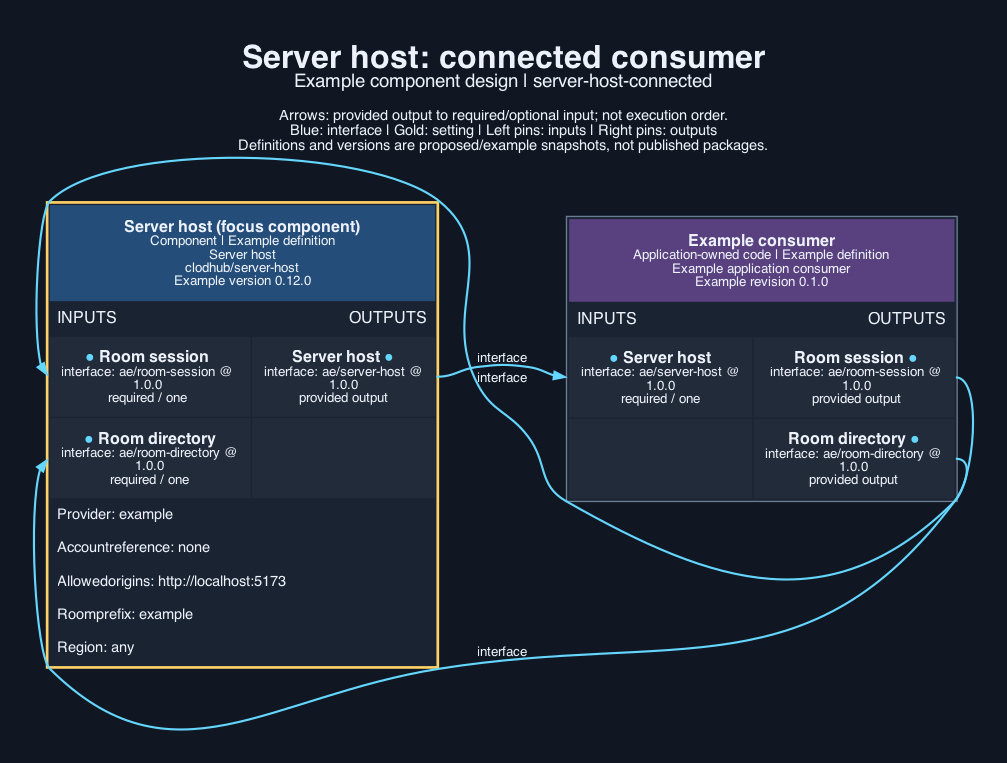
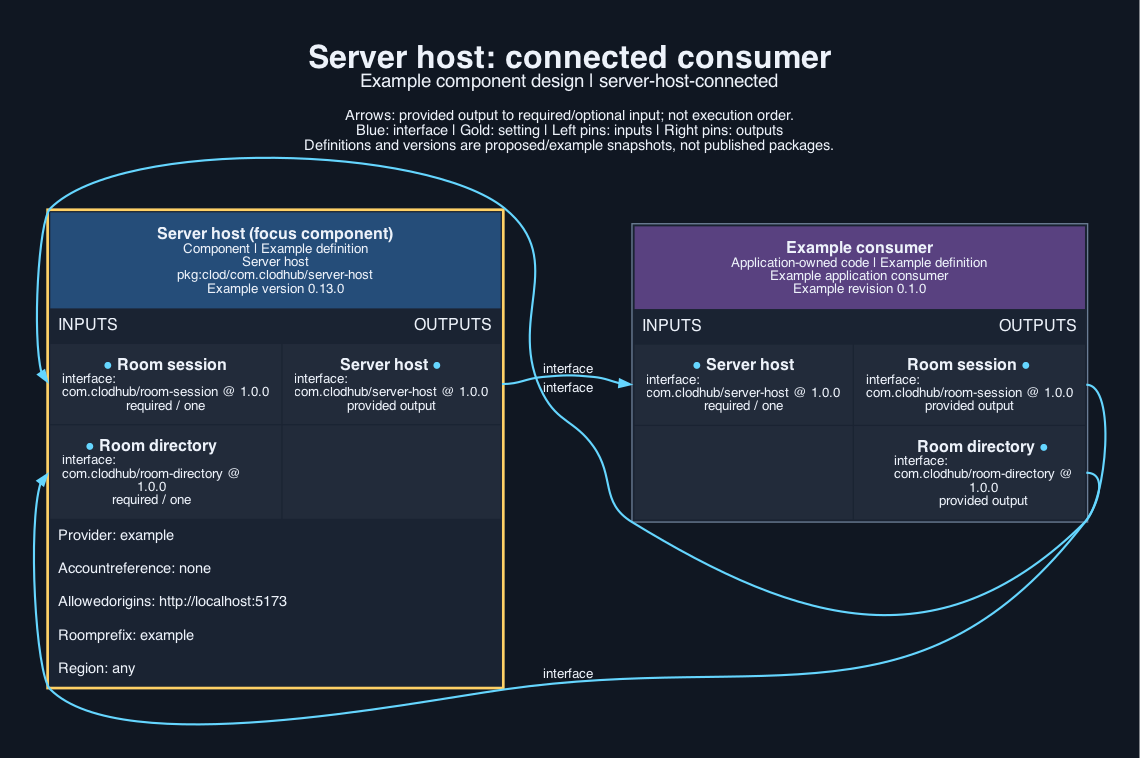
server-host 0.13.0: package URL names, clod, com.clodhub interface types

diff --git a/implementation/server/node/storage-export.ts b/implementation/server/node/storage-export.ts
@@ -2,7 +2,7 @@ import { createHash } from "node:crypto";
 import { existsSync, mkdirSync, readFileSync, readdirSync, renameSync, writeFileSync } from "node:fs";
 import { join } from "node:path";
 
-// Portable export and import of the object files the Node adapter keeps, as ndjson (ae/object-storage 1.0.0).
+// Portable export and import of the object files the Node adapter keeps, as ndjson (com.clodhub/object-storage 1.0.0).
 
 export type ObjectRecord = { namespace: string; name: string; storage: Record<string, unknown>; alarm: number | null };
 export type Check = { counts: boolean; checksums: boolean; sample: string[] };
@@ -34,7 +34,7 @@ export function readStorage(dataDirectory: string): ObjectRecord[] {
 
 export function exportStorage(records: ObjectRecord[]): string {
   const sorted = [...records].sort((a, b) => (a.namespace + "/" + a.name < b.namespace + "/" + b.name ? -1 : 1));
-  const lines: unknown[] = [{ type: "header", format: "ae/object-storage", version: "1.0.0", objects: sorted.length }];
+  const lines: unknown[] = [{ type: "header", format: "com.clodhub/object-storage", version: "1.0.0", objects: sorted.length }];
   for (const record of sorted) lines.push({ type: "object", ...record, sha256: digest(record) });
   return lines.map((line) => JSON.stringify(line)).join("\n") + "\n";
 }
@@ -42,7 +42,7 @@ export function exportStorage(records: ObjectRecord[]): string {
 export function importStorage(text: string): ObjectRecord[] {
   const lines = text.split("\n").filter((line) => line.length > 0).map((line) => JSON.parse(line));
   const header = lines[0];
-  if (!header || header.type !== "header" || header.format !== "ae/object-storage" || header.version !== "1.0.0") throw new Error("not an ae/object-storage 1.0.0 export");
+  if (!header || header.type !== "header" || header.format !== "com.clodhub/object-storage" || header.version !== "1.0.0") throw new Error("not a com.clodhub/object-storage 1.0.0 export");
   const records: ObjectRecord[] = [];
   const seen = new Set<string>();
   for (const line of lines.slice(1)) {

diff --git a/tests/web.test.ts b/tests/web.test.ts
@@ -370,13 +370,13 @@ test("tampered, miscounted, duplicate or foreign exports are rejected", () => {
   assert.throws(() => importStorage(text.replace('"count":1', '"count":2')), /checksum mismatch for ROOM\/a/);
   assert.throws(() => importStorage(text.replace('"objects":1', '"objects":2')), /object count mismatch/);
   assert.throws(() => importStorage(text + text.split("\n")[1] + "\n"), /duplicate object/);
-  assert.throws(() => importStorage("{}\n"), /not an ae\/object-storage/);
+  assert.throws(() => importStorage("{}\n"), /not a com\.clodhub\/object-storage/);
   assert.throws(() => importStorage(exportStorage([{ ...record, namespace: "../x" }])), /invalid namespace/);
   assert.equal(verifyStorage([record], []).counts, false);
   assert.equal(verifyStorage([record], [{ ...record, storage: { count: 9 } }]).checksums, false);
 });
 
-// ---- host-settings.ts (rendered by aepm at install) ----
+// ---- host-settings.ts (rendered by clod at install) ----
 
 const settingsFixture = JSON.parse(readFileSync(new URL("fixtures/host-settings-collect.json", import.meta.url), "utf8"));
 const declarations = settingsFixture.collect as Declaration[];
@@ -440,7 +440,7 @@ test("a Cloudflare provider without an account name is refused when the host sta
   assert.deepEqual(fromHostSettings({ ...hostSettings, accountReference: "acme" }).accountReference, "acme");
 });
 
-test("the template rules refuse what aepm refuses", () => {
+test("the template rules refuse what clod refuses", () => {
   const base = { provider: "own-hardware", roomPrefix: "demo-" };
   assert.throws(() => configuration(declarations, { roomPrefix: "demo-" }), /required-setting provider/);
   assert.throws(() => configuration(declarations, { ...base, roomPrefix: "Demo" }), /setting-grammar roomPrefix/);

diff --git a/implementation/server/settings.ts b/implementation/server/settings.ts
@@ -24,7 +24,7 @@ export interface ResolvedServerSettings {
   region: string;
 }
 
-// The values aepm renders into host-settings.ts from this component's collected settings (every field is always present).
+// The values clod renders into host-settings.ts from this component's collected settings (every field is always present).
 export interface HostSettings {
   provider: Provider;
   // The name of the account secret, or NO_ACCOUNT when none is used (own hardware).
@@ -48,7 +48,7 @@ export const JURISDICTIONS: readonly string[] = ["eu", "us", "fedramp"];
 export const LOCATION_HINTS: readonly string[] = ["wnam", "enam", "sam", "weur", "eeur", "apac", "apac-ne", "apac-se", "oc", "afr", "me"];
 
 const SLUG = /^[a-z][a-z0-9-]{0,63}$/;
-// The secret reference grammar aepm accepts for configuration values.
+// The secret reference grammar clod accepts for configuration values.
 const SECRET_REFERENCE = /^[A-Za-z][A-Za-z0-9_./-]{0,127}$/;
 const ORIGIN = /^(https?):\/\/([A-Za-z0-9.-]+)(:[0-9]{1,5})?$/;
 const LOOPBACK = new Set(["localhost", "127.0.0.1"]);

diff --git a/implementation/server/host.ts b/implementation/server/host.ts
@@ -24,7 +24,7 @@ export interface ServerHost {
   deployFiles(options?: DeployOptions): Record<string, string>;
 }
 
-// The host for the settings aepm rendered into host-settings.ts (`import { hostSettings } from "./host-settings.ts"`).
+// The host for the settings clod rendered into host-settings.ts (`import { hostSettings } from "./host-settings.ts"`).
 export const createServerHostFromHostSettings = (raw: HostSettings): ServerHost => createServerHost(fromHostSettings(raw));
 
 export function createServerHost(settings: ServerSettings): ServerHost {

diff --git a/tests/render-template.ts b/tests/render-template.ts
@@ -1,4 +1,4 @@
-// A pure copy of aepm's template rules (aepm/application.py: configuration, substitute) for the settings the tests render.
+// A pure copy of clod's template rules (clod/application.py: configuration, substitute) for the settings the tests render.
 
 export interface Declaration { id: string; type: "string" | "boolean" | "integer"; grammar: string; required: boolean; secret: boolean; default?: string | boolean | number }
 

diff --git a/examples/rendered-host-settings.ts b/examples/rendered-host-settings.ts
@@ -1,6 +1,6 @@
 import { fromHostSettings, type HostSettings, type ServerSettings } from "./settings.ts";
 
-// Rendered by aepm at install from the server-host settings; nothing else writes this file.
+// Rendered by clod at install from the server-host settings; nothing else writes this file.
 export const hostSettings: HostSettings = {
   provider: "cloudflare-free",
   accountReference: "ourpoker-cloudflare-account",

diff --git a/implementation/server/host-settings.ts b/implementation/server/host-settings.ts
@@ -1,6 +1,6 @@
 import { fromHostSettings, type HostSettings, type ServerSettings } from "./settings.ts";
 
-// Rendered by aepm at install from the server-host settings; nothing else writes this file.
+// Rendered by clod at install from the server-host settings; nothing else writes this file.
 export const hostSettings: HostSettings = {
   provider: "{{provider}}",
   accountReference: "{{accountReference}}",

diff --git a/authoring/finish.py b/authoring/finish.py
@@ -1,4 +1,4 @@
-"""Run after tools/scaffold_component.py: marks host-settings.ts and wrangler.jsonc as aepm template artefacts (the scaffolder has no template option) and keeps the committed manifest layout."""
+"""Run after tools/scaffold_component.py: marks host-settings.ts and wrangler.jsonc as clod template artefacts (the scaffolder has no template option) and keeps the committed manifest layout."""
 import json
 from pathlib import Path
 

diff --git a/CONTRACT.md b/CONTRACT.md
@@ -6,7 +6,7 @@ The entry point of a server target. The application writes one worker module (a 
 Facilities: `server-host` (Hosting for the application's room service on Cloudflare or own hardware).
 
 ## User inputs
-The installer collects `provider` (`cloudflare-free`, `cloudflare-paid` or `own-hardware`), `accountReference` (a reference name, never a value: the name of the secret in the release pipeline's store that holds the Cloudflare account; default `none`, which is right on own hardware and refused on Cloudflare), `allowedOrigins` (one web address of the client; default `http://localhost:5173`; loopback addresses are trusted anyway, and more origins are passed to `createServerHost` as a list), `roomPrefix` (required; lower-case letters, digits and hyphens, such as `ourpoker-`: the prefix of the names under which rooms are stored, also used for the worker's name and for video room names) and `region` (default `any`; on Cloudflare a jurisdiction `eu`, `us` or `fedramp`, or a location hint such as `weur`; on own hardware a free label only). aepm renders all five into `host-settings.ts` at install.
+The installer collects `provider` (`cloudflare-free`, `cloudflare-paid` or `own-hardware`), `accountReference` (a reference name, never a value: the name of the secret in the release pipeline's store that holds the Cloudflare account; default `none`, which is right on own hardware and refused on Cloudflare), `allowedOrigins` (one web address of the client; default `http://localhost:5173`; loopback addresses are trusted anyway, and more origins are passed to `createServerHost` as a list), `roomPrefix` (required; lower-case letters, digits and hyphens, such as `ourpoker-`: the prefix of the names under which rooms are stored, also used for the worker's name and for video room names) and `region` (default `any`; on Cloudflare a jurisdiction `eu`, `us` or `fedramp`, or a location hint such as `weur`; on own hardware a free label only). clod renders all five into `host-settings.ts` at install.
 
 - `provider` (string, slug; required)
 - `accountReference` (string, slug; optional; default `none`; a reference name, not secret and never a value)
@@ -19,7 +19,7 @@ The installer collects `provider` (`cloudflare-free`, `cloudflare-paid` or `own-
 
 - `implementation/server/deploy.ts` -> `components/server-host/server/deploy.ts`
 - `implementation/server/entry.ts` -> `components/server-host/server/entry.ts`
-- `implementation/server/host-settings.ts` -> `components/server-host/server/host-settings.ts` (template: aepm replaces `{{provider}}`, `{{accountReference}}`, `{{allowedOrigins}}`, `{{roomPrefix}}` and `{{region}}` inside the quoted strings at install)
+- `implementation/server/host-settings.ts` -> `components/server-host/server/host-settings.ts` (template: clod replaces `{{provider}}`, `{{accountReference}}`, `{{allowedOrigins}}`, `{{roomPrefix}}` and `{{region}}` inside the quoted strings at install)
 - `implementation/server/host.ts` -> `components/server-host/server/host.ts`
 - `implementation/server/node/globals.ts` -> `components/server-host/server/node/globals.ts`
 - `implementation/server/node/loader.ts` -> `components/server-host/server/node/loader.ts`
@@ -32,21 +32,21 @@ The installer collects `provider` (`cloudflare-free`, `cloudflare-paid` or `own-
 - `implementation/server/region.ts` -> `components/server-host/server/region.ts`
 - `implementation/server/settings.ts` -> `components/server-host/server/settings.ts`
 - `implementation/server/start.ts` -> `components/server-host/server/start.ts`
-- `implementation/server/wrangler.jsonc` -> `components/server-host/server/wrangler.jsonc` (template: aepm replaces `{{roomPrefix}}` and `{{allowedOrigins}}` at install)
+- `implementation/server/wrangler.jsonc` -> `components/server-host/server/wrangler.jsonc` (template: clod replaces `{{roomPrefix}}` and `{{allowedOrigins}}` at install)
 
 Dependencies: none.
 `tools.lock.json` pins verification tools: node 26.5. Licence wording remains deferred.
 
 ## Provided interfaces
-- `interfaces/server-host.json` defines `server-host` (ae/server-host) version 1.0.0 as an OpenRPC 1.3.2 document: one method per exported function of `server/host.ts` and `server/node/*.ts` (`createServerHost`, `validateSettings`, `originAllowed`, `regionEnv`, `serveNode`, the storage export and import functions and the rest), plus the functions of the returned host (`ServerHost.*`), with parameters and results as JSON Schema 2020-12 and the errors each throws.
-- `interfaces/object-storage.schema.json` is the JSON Schema 2020-12 document (ae/object-storage 1.0.0) of the object files and the ndjson export lines the Node adapter keeps.
+- `interfaces/server-host.json` defines `server-host` (com.clodhub/server-host) version 1.0.0 as an OpenRPC 1.3.2 document: one method per exported function of `server/host.ts` and `server/node/*.ts` (`createServerHost`, `validateSettings`, `originAllowed`, `regionEnv`, `serveNode`, the storage export and import functions and the rest), plus the functions of the returned host (`ServerHost.*`), with parameters and results as JSON Schema 2020-12 and the errors each throws.
+- `interfaces/object-storage.schema.json` is the JSON Schema 2020-12 document (com.clodhub/object-storage 1.0.0) of the object files and the ndjson export lines the Node adapter keeps.
 
 ## Required interfaces
-- `room-session` (ae/room-session) version 1.0.0, supplied by the recipe or application; `interfaces/required-room-session.json` is a copy of the providing component's interface document.
-- `room-directory` (ae/room-directory) version 1.0.0, supplied by the recipe or application; `interfaces/required-room-directory.json` is a copy of the providing component's interface document.
+- `room-session` (com.clodhub/room-session) version 1.0.0, supplied by the recipe or application; `interfaces/required-room-session.json` is a copy of the providing component's interface document.
+- `room-directory` (com.clodhub/room-directory) version 1.0.0, supplied by the recipe or application; `interfaces/required-room-directory.json` is a copy of the providing component's interface document.
 
 ## Integration
-aepm renders `components/server-host/server/host-settings.ts` from the five settings (a template artefact; nothing else writes it). It exports `hostSettings` (the typed values) and `serverSettings()` (the settings `createServerHost` takes; `none` for `accountReference` means no account). In the application's server module: `import { serverSettings } from "./host-settings.ts"` and `const host = createServerHost(serverSettings())` (or `createServerHostFromHostSettings(hostSettings)`) from `server/host.ts`; build the room service as usual (`createWorker(host.roomsSettings(), roomIds, service)`); `export const Room = host.objectClass(RoomBase)` and `export const Directory = host.objectClass(DirectoryBase)` (`DirectoryBase = createDirectoryClass(DurableObject, options)` from room-directory); `export default host.entry(worker)`. The installed application runs the module with the two installed files beside `host-settings.ts`, which assume the application's worker module is `server/src/index.ts` (the Durable Object classes `Room` and `Directory`, bindings `ROOM` and `DIRECTORY`): `wrangler.jsonc`, rendered at install from the settings (the worker named `<roomPrefix>server`, `nodejs_compat`, `WEB_ORIGINS` from `allowedOrigins`, the two SQLite-backed objects; the same configuration `renderWrangler` writes), used from the application's server folder as `wrangler deploy --config ../components/server-host/server/wrangler.jsonc` (or `wrangler dev`, or the Workers test runtime); and `start.ts`, run as `node ../components/server-host/server/start.ts` on Node for own hardware or local development with any provider: it imports `server/node/register.ts` before the application module, passes `WEB_ORIGINS` (default `allowedOrigins`), `CODE_VERSION` and every other upper-case environment variable to the worker's env, and listens on `PORT` (default 8788) and `HOST` (default 127.0.0.1) with room storage in `DATA_DIRECTORY` (default `./data`). `host.deployFiles()` renders the same deployment files from settings at run time for an application laid out differently; write them next to the module. Cloudflare providers: write them, then run `sh deploy.sh` with the secret reference resolved into `CLOUDFLARE_ACCOUNT_ID` and `CLOUDFLARE_API_TOKEN`. Own hardware: write `start.ts`, run `node start.ts`; it imports `server/node/register.ts` before the application module (a registered loader maps `cloudflare:workers` to a local shim and extensionless relative imports to `.ts`), then calls `serveNode`. `examples/worker.ts` composes the host with a small room service, `examples/start-own-hardware.ts` runs it, and `examples/rendered-host-settings.ts` is what aepm renders for one set of answers. `server/node/storage-export.ts` exports and imports the Node adapter's data as ndjson (see migration.json).
+clod renders `components/server-host/server/host-settings.ts` from the five settings (a template artefact; nothing else writes it). It exports `hostSettings` (the typed values) and `serverSettings()` (the settings `createServerHost` takes; `none` for `accountReference` means no account). In the application's server module: `import { serverSettings } from "./host-settings.ts"` and `const host = createServerHost(serverSettings())` (or `createServerHostFromHostSettings(hostSettings)`) from `server/host.ts`; build the room service as usual (`createWorker(host.roomsSettings(), roomIds, service)`); `export const Room = host.objectClass(RoomBase)` and `export const Directory = host.objectClass(DirectoryBase)` (`DirectoryBase = createDirectoryClass(DurableObject, options)` from room-directory); `export default host.entry(worker)`. The installed application runs the module with the two installed files beside `host-settings.ts`, which assume the application's worker module is `server/src/index.ts` (the Durable Object classes `Room` and `Directory`, bindings `ROOM` and `DIRECTORY`): `wrangler.jsonc`, rendered at install from the settings (the worker named `<roomPrefix>server`, `nodejs_compat`, `WEB_ORIGINS` from `allowedOrigins`, the two SQLite-backed objects; the same configuration `renderWrangler` writes), used from the application's server folder as `wrangler deploy --config ../components/server-host/server/wrangler.jsonc` (or `wrangler dev`, or the Workers test runtime); and `start.ts`, run as `node ../components/server-host/server/start.ts` on Node for own hardware or local development with any provider: it imports `server/node/register.ts` before the application module, passes `WEB_ORIGINS` (default `allowedOrigins`), `CODE_VERSION` and every other upper-case environment variable to the worker's env, and listens on `PORT` (default 8788) and `HOST` (default 127.0.0.1) with room storage in `DATA_DIRECTORY` (default `./data`). `host.deployFiles()` renders the same deployment files from settings at run time for an application laid out differently; write them next to the module. Cloudflare providers: write them, then run `sh deploy.sh` with the secret reference resolved into `CLOUDFLARE_ACCOUNT_ID` and `CLOUDFLARE_API_TOKEN`. Own hardware: write `start.ts`, run `node start.ts`; it imports `server/node/register.ts` before the application module (a registered loader maps `cloudflare:workers` to a local shim and extensionless relative imports to `.ts`), then calls `serveNode`. `examples/worker.ts` composes the host with a small room service, `examples/start-own-hardware.ts` runs it, and `examples/rendered-host-settings.ts` is what clod renders for one set of answers. `server/node/storage-export.ts` exports and imports the Node adapter's data as ndjson (see migration.json).
 
 ## Visual definition and connected examples
 `visual/definition.json` maps its ports to the provided and required interfaces. `visual/examples/connected.json` connects the component to an illustrative application consumer. Both image formats and a text description are in `visual/output/`.
@@ -55,7 +55,7 @@ aepm renders `components/server-host/server/host-settings.ts` from the five sett
 cloudflare-free and cloudflare-paid deploy one Worker with SQLite-backed Durable Objects (the only kind the free plan offers) to a Cloudflare account supplied by reference; nothing in the package holds an account value, and `wrangler.jsonc` carries only a comment naming the reference. own-hardware needs one machine with Node 26 or later, a port, and TLS in front if clients connect from https pages (the adapter speaks plain http and ws). Limits and prices are in suitability.json with their sources; the Node adapter has no measured limits.
 
 ## Verification
-`node --test tests/web.test.ts` checks settings validation (every provider, account reference grammar, origins, regions), the `host-settings.ts` template rendered by a small pure renderer that mirrors aepm's `{{setting}}` rules (quoted positions, grammars, secret settings refused, defaults) and then loaded and handed to the host, the origin policy and region placement against fake namespaces, the rendered deployment files, the installed `wrangler.jsonc` against `renderWrangler`, `start.ts` serving a worker module laid out as an installed application (on a free port, with `DATA_DIRECTORY`), RFC 6455 framing, and the Node adapter end to end on a real socket with a small Workers-style service: HTTP routing to named objects, object-to-object calls, streamed bodies, WebSocket handshake, first message, auto ping reply, broadcast, binary frames, server and client close, protocol errors, alarms, abort and restart, persistence across a restart including a pending alarm, and storage export and import. `authoring/integration-realtime-rooms.ts` (not packaged) additionally runs the real realtime-rooms service on the Node adapter. Deployment to Cloudflare, the wrangler files against a real account, and TLS, load and long-running behaviour of the Node adapter were not exercised.
+`node --test tests/web.test.ts` checks settings validation (every provider, account reference grammar, origins, regions), the `host-settings.ts` template rendered by a small pure renderer that mirrors clod's `{{setting}}` rules (quoted positions, grammars, secret settings refused, defaults) and then loaded and handed to the host, the origin policy and region placement against fake namespaces, the rendered deployment files, the installed `wrangler.jsonc` against `renderWrangler`, `start.ts` serving a worker module laid out as an installed application (on a free port, with `DATA_DIRECTORY`), RFC 6455 framing, and the Node adapter end to end on a real socket with a small Workers-style service: HTTP routing to named objects, object-to-object calls, streamed bodies, WebSocket handshake, first message, auto ping reply, broadcast, binary frames, server and client close, protocol errors, alarms, abort and restart, persistence across a restart including a pending alarm, and storage export and import. `authoring/integration-realtime-rooms.ts` (not packaged) additionally runs the real realtime-rooms service on the Node adapter. Deployment to Cloudflare, the wrangler files against a real account, and TLS, load and long-running behaviour of the Node adapter were not exercised.
 
 - `node --test tests/web.test.ts` (web, required-local; tools: node 26.5)
 
@@ -63,4 +63,4 @@ cloudflare-free and cloudflare-paid deploy one Worker with SQLite-backed Durable
 A small table uses cloudflare-free and stays within the free request allowance; a larger or always-on service uses cloudflare-paid; a club that prefers its own machine uses own-hardware and keeps data in a folder it can back up. A server pinned to `eu` keeps its objects in the European Union jurisdiction on Cloudflare.
 
 ## Updates and removal
-Patch updates replace the owned files; render the deployment files again after each update. The Node adapter's data format is described in migration.json (`ae/object-storage` 1.0.0). `accountReference` is a non-secret reference name with default `none` (a template cannot render a secret setting) and `allowedOrigins` has the default `http://localhost:5173`. `ServerSettings` is the lower layer that `createServerHost` takes; `serverSettings()` builds it from the rendered `hostSettings`. The Directory class comes from room-directory. Removal deletes the owned sources; on Cloudflare the Worker and its objects remain in the account until the owner deletes them, and on own hardware the data folder remains until the owner deletes it (export it first).
+Patch updates replace the owned files; render the deployment files again after each update. The Node adapter's data format is described in migration.json (`com.clodhub/object-storage` 1.0.0). `accountReference` is a non-secret reference name with default `none` (a template cannot render a secret setting) and `allowedOrigins` has the default `http://localhost:5173`. `ServerSettings` is the lower layer that `createServerHost` takes; `serverSettings()` builds it from the rendered `hostSettings`. The Directory class comes from room-directory. Removal deletes the owned sources; on Cloudflare the Worker and its objects remain in the account until the owner deletes them, and on own hardware the data folder remains until the owner deletes it (export it first).

diff --git a/INSTRUCTIONS.md b/INSTRUCTIONS.md
@@ -1,20 +1,20 @@
 # Server host instructions
 
 ## For the agent
-Select `clodhub/server-host` when the recipe's server target is chosen; pick the profile (`free` maps to cloudflare-free, `paid` to cloudflare-paid, own hardware to own-hardware) from the scale answer using suitability.json. Connect `room-session` and `room-directory` to the room service and directory components. Never put a Cloudflare token or account id in a setting: supply the name of the secret as `accountReference`. The recipe's server code imports `host-settings.ts` from the installed `components/server-host/server/` folder; do not write that file.
+Select `pkg:clod/com.clodhub/server-host` when the recipe's server target is chosen; pick the profile (`free` maps to cloudflare-free, `paid` to cloudflare-paid, own hardware to own-hardware) from the scale answer using suitability.json. Connect `room-session` and `room-directory` to the room service and directory components. Never put a Cloudflare token or account id in a setting: supply the name of the secret as `accountReference`. The recipe's server code imports `host-settings.ts` from the installed `components/server-host/server/` folder; do not write that file.
 
-- Select package `clodhub/server-host` version `0.12.0`.
+- Select package `pkg:clod/com.clodhub/server-host` version `0.13.0`.
 - Settings to configure:
   - `provider` (string, slug; required)
   - `accountReference` (string, slug; optional; default `none`; the name of the secret, never its value)
   - `allowedOrigins` (string, address; optional; default `http://localhost:5173`)
   - `roomPrefix` (string, slug; required)
   - `region` (string, slug; optional; default `any`)
-- Connect the provided `server-host` (ae/server-host 1.0.0) to the consumer that needs it.
-- Supply `room-session` (ae/room-session 1.0.0) from the component that provides it.
-- Supply `room-directory` (ae/room-directory 1.0.0) from the component that provides it (the Directory class comes from `room-directory`, not from `realtime-rooms`).
+- Connect the provided `server-host` (com.clodhub/server-host 1.0.0) to the consumer that needs it.
+- Supply `room-session` (com.clodhub/room-session 1.0.0) from the component that provides it.
+- Supply `room-directory` (com.clodhub/room-directory 1.0.0) from the component that provides it (the Directory class comes from `room-directory`, not from `realtime-rooms`).
 - Secrets are given by reference only, never by value: `accountReference` carries the name of the secret.
-- aepm renders `components/server-host/server/host-settings.ts` and `wrangler.jsonc` from these settings; import `hostSettings` or `serverSettings()` from `host-settings.ts` and do not write either file. The application's worker module is `server/src/index.ts`.
+- clod renders `components/server-host/server/host-settings.ts` and `wrangler.jsonc` from these settings; import `hostSettings` or `serverSettings()` from `host-settings.ts` and do not write either file. The application's worker module is `server/src/index.ts`.
 
 ## For the developer
 Cloudflare: create an account, create an API token for Workers, store the account id and token in the release pipeline's secret store under the reference name, and give that name as `accountReference`; the pipeline exports `CLOUDFLARE_ACCOUNT_ID` and `CLOUDFLARE_API_TOKEN` for `deploy.sh`. From the application's server folder: Cloudflare, `npx wrangler deploy --config ../components/server-host/server/wrangler.jsonc` with `CLOUDFLARE_ACCOUNT_ID` and `CLOUDFLARE_API_TOKEN` resolved from the reference; own hardware or local development, `node ../components/server-host/server/start.ts` with Node 26 or later, setting `PORT`, `HOST` and `DATA_DIRECTORY`, behind a TLS-terminating proxy, backing up the data folder (or running the ndjson export on a schedule). To check: run the commands below; for a live check call `GET /health` on the deployed address.
@@ -23,4 +23,4 @@ Cloudflare: create an account, create an API token for Workers, store the accoun
 From the component directory:
 
 - `node --test tests/web.test.ts` (web, required-local; tools: node 26.5)
-- `python3 -m aepm review <digest> --store STORE --policy POLICY --trusted --allow-network` checks an archive fetched with `python3 -m aepm fetch clodhub/server-host@VERSION --store STORE --from https://clodhub.com` and runs its suites.
+- `python3 -m clod review <digest> --store STORE --policy POLICY --trusted --allow-network` checks an archive fetched with `python3 -m clod fetch server-host@VERSION --store STORE --from https://clodhub.com` and runs its suites.

diff --git a/SOURCE.md b/SOURCE.md
@@ -9,8 +9,8 @@ Reference revision: `19905b75dbea89fbfd424d67fe26c81aaed0e018`. Recipe paths are
 - `implementation/server/index.ts` in `clodhub/realtime-rooms` and `implementation/server/directory.ts` in `clodhub/room-directory` (the Workers APIs the Room and Directory classes use: `ctx.storage.get/put/setAlarm/deleteAlarm/getAlarm`, `blockConcurrencyWhile`, `abort`, `acceptWebSocket` with tags, `getWebSockets`, `getTags`, `setWebSocketAutoResponse`, `getWebSocketAutoResponseTimestamp`, `WebSocketPair`, `WebSocketRequestResponsePair`, `ws.serializeAttachment/deserializeAttachment/send/close/readyState`, `env.X.getByName(...).fetch(...)`, `Response` with status 101 and `webSocket`) -> `implementation/server/node/runtime.ts`, `globals.ts`, `websocket.ts`, `serve.ts`, `loader.ts`, `workers-shim.ts`: `generated-platform`. There is no recipe counterpart; these files implement those calls for one Node process (objects by name, storage on disk with atomic replace, one alarm per object, RFC 6455 server framing, handshake, ping replies and close handling) and were written against the call sites listed here, then run against the real realtime-rooms fixture (see `authoring/integration-realtime-rooms.ts`).
 - `implementation/server/region.ts` is new: Cloudflare `jurisdiction()` and `locationHint` placement from the data location page.
 - `implementation/server/node/storage-export.ts` follows the style of `examples/migration.ts` in `clodhub/realtime-rooms` (ndjson with a header and per-record sha256) for the Node adapter's files.
-- `implementation/server/host-settings.ts` is new (`generated-platform`): the template aepm renders at install from the five settings, with `fromHostSettings` in `settings.ts` and `createServerHostFromHostSettings` in `host.ts`; the OurPoker server had no counterpart (its settings were the literal object in `src/index.ts` lines 9-11). `tests/render-template.ts` is a pure copy of aepm's `configuration` and `substitute` rules (`aepm/aepm/application.py` lines 63-137) used by the tests; `examples/rendered-host-settings.ts` is a rendered sample.
-- `wrangler.jsonc` lines 1-10 also -> `implementation/server/wrangler.jsonc`, the template aepm renders at install: the configuration `renderWrangler` writes, with the application's worker module at `../../../server/src/index.ts` (`generated-platform` layout, no recipe counterpart for the path).
+- `implementation/server/host-settings.ts` is new (`generated-platform`): the template clod renders at install from the five settings, with `fromHostSettings` in `settings.ts` and `createServerHostFromHostSettings` in `host.ts`; the OurPoker server had no counterpart (its settings were the literal object in `src/index.ts` lines 9-11). `tests/render-template.ts` is a pure copy of clod's `configuration` and `substitute` rules (`clod/clod/application.py` lines 63-137) used by the tests; `examples/rendered-host-settings.ts` is a rendered sample.
+- `wrangler.jsonc` lines 1-10 also -> `implementation/server/wrangler.jsonc`, the template clod renders at install: the configuration `renderWrangler` writes, with the application's worker module at `../../../server/src/index.ts` (`generated-platform` layout, no recipe counterpart for the path).
 - `implementation/server/start.ts` is new (`generated-platform`): the Node start script `renderNodeStart` writes, as an installed file that reads `host-settings.ts` and passes the environment's upper-case variables to the worker.
 - `implementation/server/host.ts` and `settings.ts` are new: the typed settings, their checks (secret reference grammar, https origins, region lists) and the single `createServerHost` interface.
 

diff --git a/visual/output/description.md b/visual/output/description.md
@@ -1,3 +1,3 @@
 # Server host
 
-The server-host component at version 0.12.0 provides ae/server-host version 1.0.0 to an illustrative application consumer, which in turn supplies ae/room-session version 1.0.0 and ae/room-directory version 1.0.0. The 3 arrows each run from a named output to a required input of the same type and version. Setting values shown are placeholders and secrets appear only as references.
+The server-host component at version 0.13.0 provides com.clodhub/server-host version 1.0.0 to an illustrative application consumer, which in turn supplies com.clodhub/room-session version 1.0.0 and com.clodhub/room-directory version 1.0.0. The 3 arrows each run from a named output to a required input of the same type and version. Setting values shown are placeholders and secrets appear only as references.
